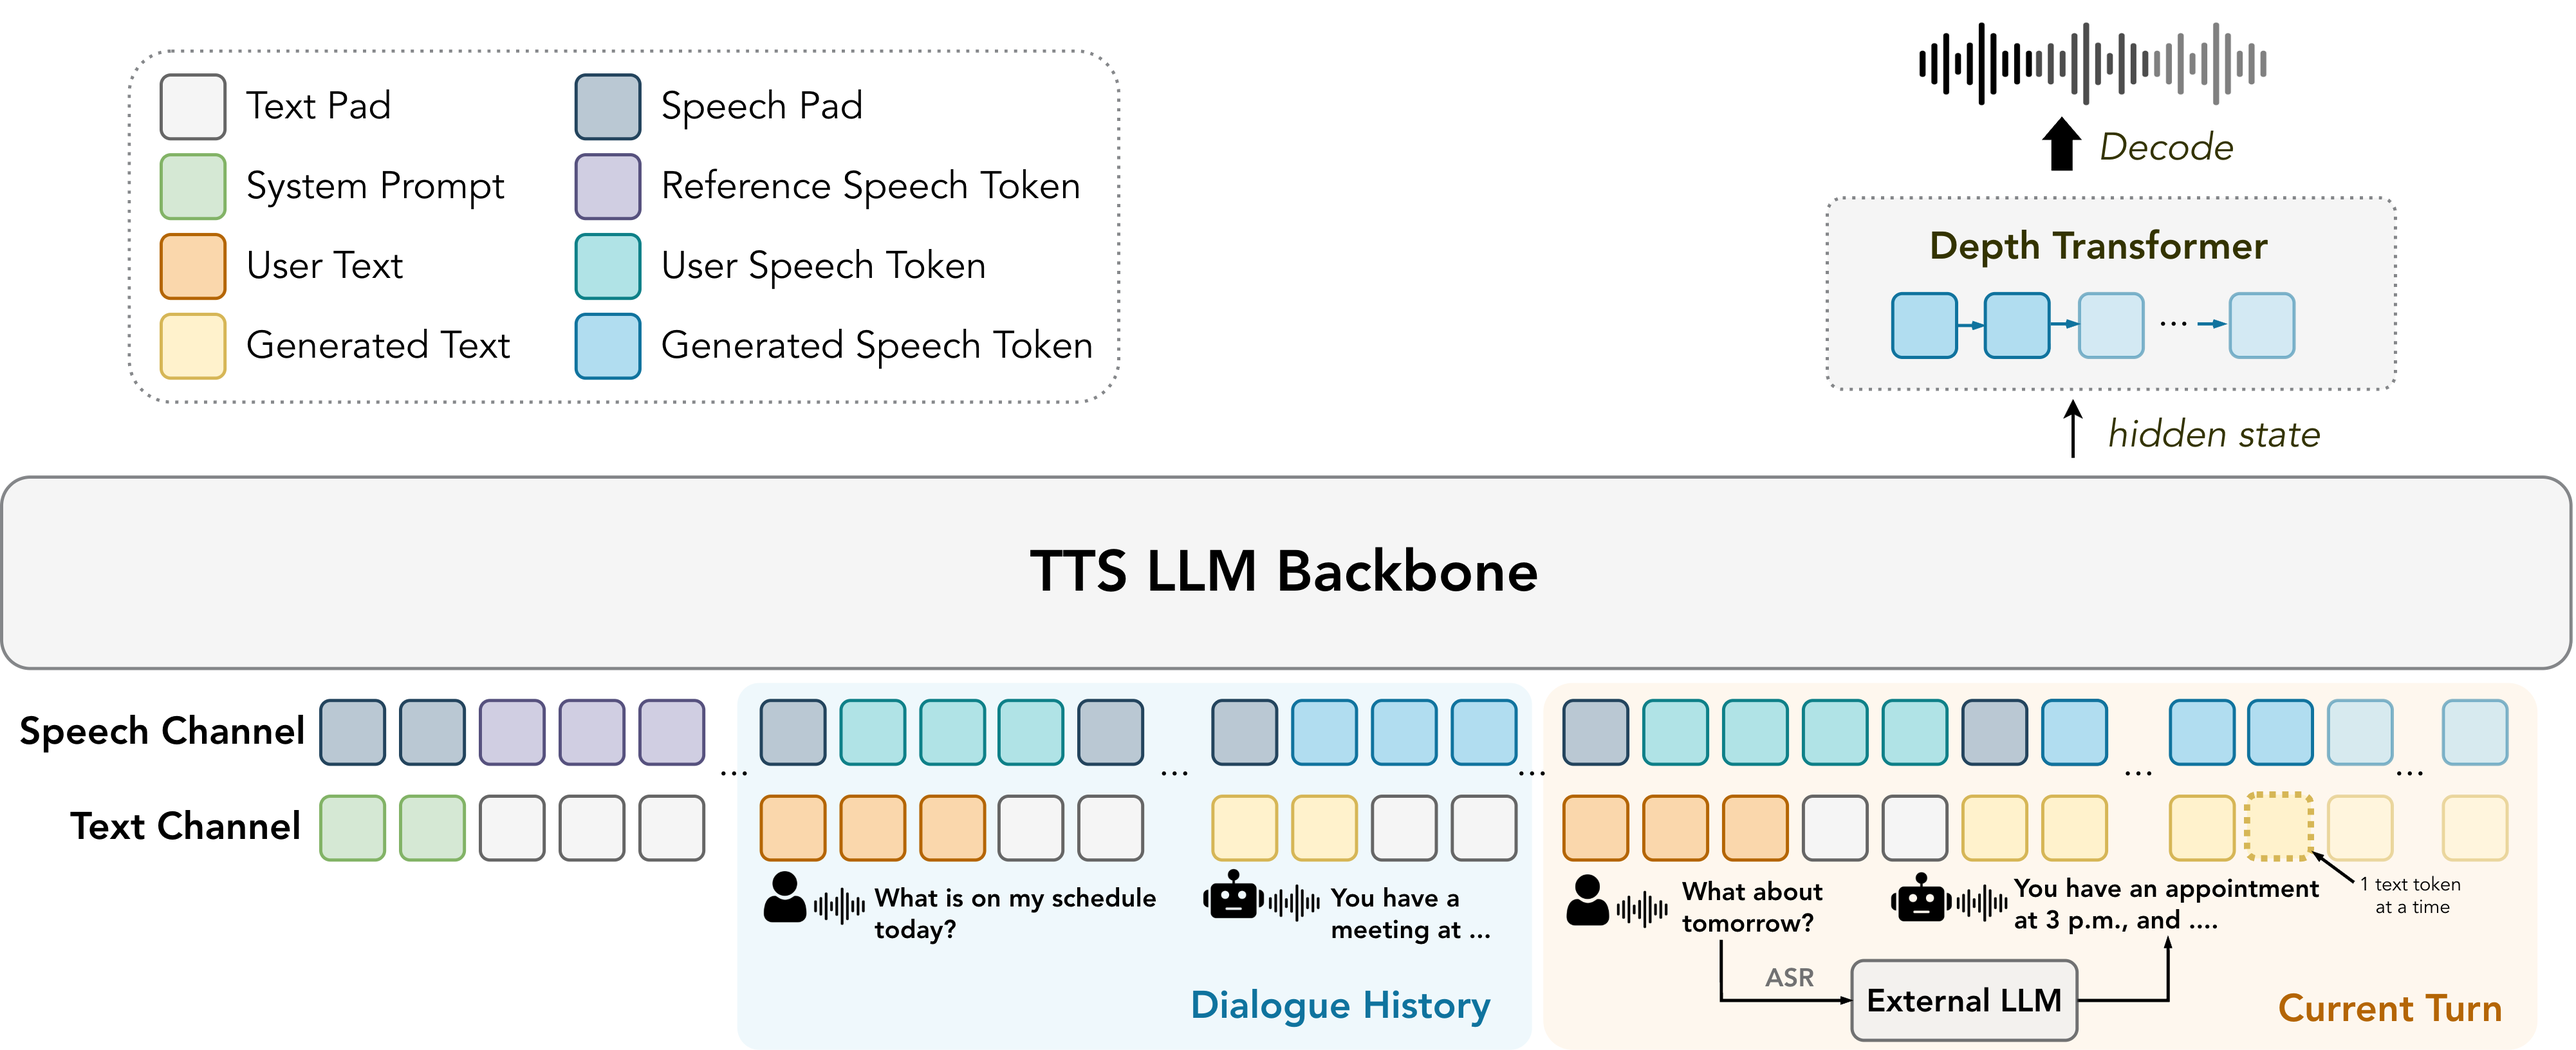
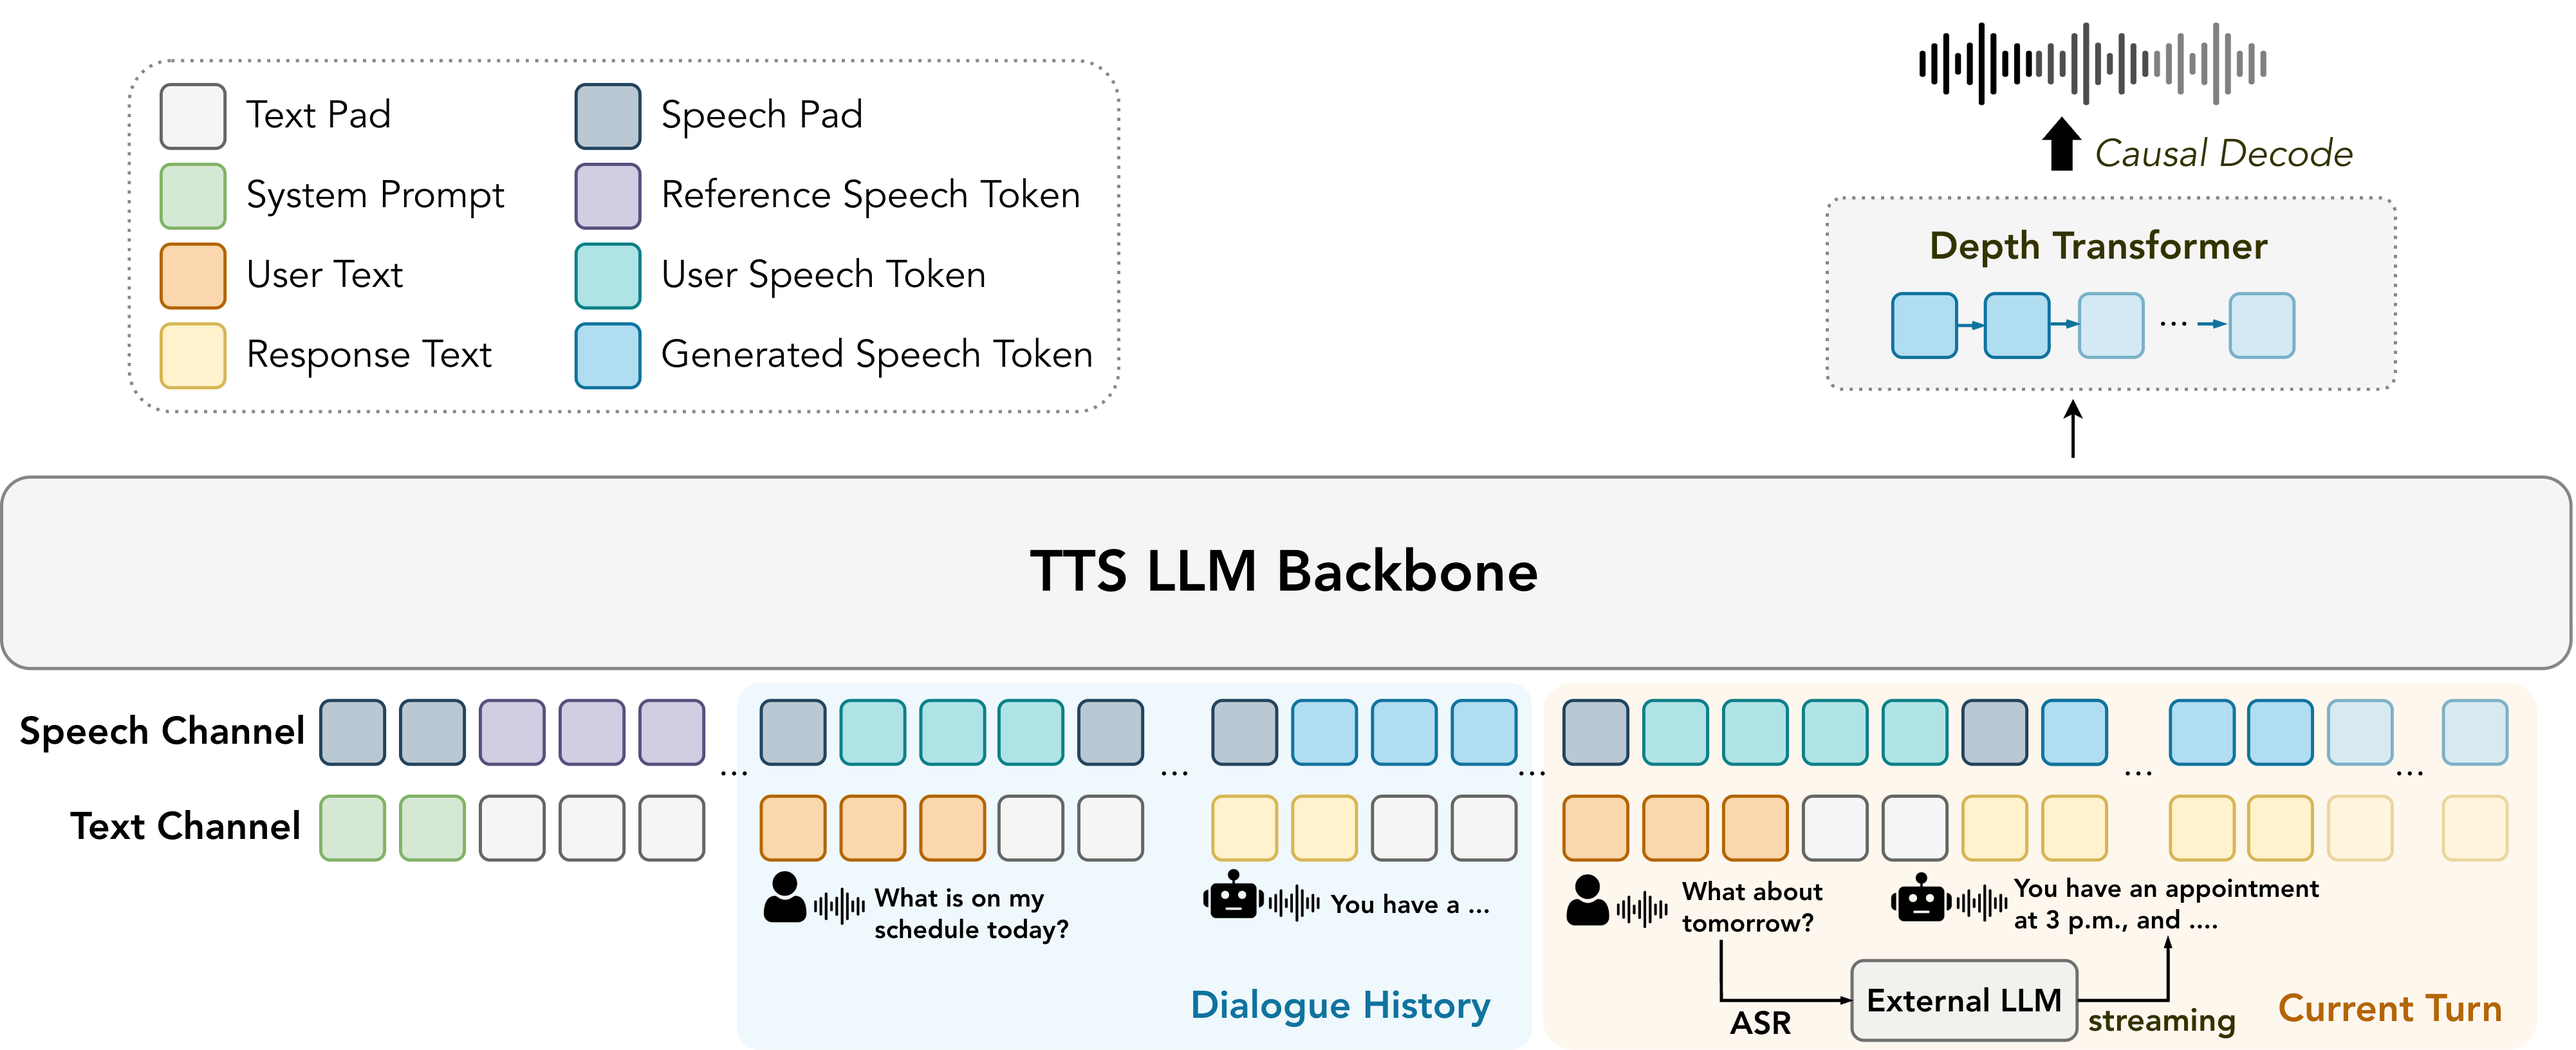
update

diff --git a/index.html b/index.html
@@ -1,0 +1,125 @@
+<!doctype html>
+<html lang="en">
+<head>
+  <meta charset="utf-8">
+  <meta name="viewport" content="width=device-width, initial-scale=1">
+  <meta name="description" content="MOSS-TTS-Realtime: context-aware, full-stream speech synthesis for real-time voice agents. Explore the model, code, and interactive demo.">
+  <title>MOSS-TTS-Realtime · Context-Aware Full-Stream Speech Synthesis</title>
+  <style>
+    :root { color-scheme: light; --ink: #252c32; --muted: #637079; --accent: #24685c; --line: #e2e7e5; }
+    * { box-sizing: border-box; }
+    body { margin: 0; background: #fff; color: var(--ink); font-family: "Helvetica Neue", Helvetica, sans-serif; font-size: 16px; line-height: 1.75; -webkit-font-smoothing: antialiased; }
+    a { color: var(--accent); text-underline-offset: 4px; }
+    a:hover { color: #123f36; }
+    a:focus-visible { outline: 3px solid #488bcb; outline-offset: 5px; }
+    .skip { position: absolute; top: -100px; left: 20px; background: #fff; padding: 8px 16px; z-index: 2; }
+    .skip:focus { top: 12px; }
+    .page { max-width: 1040px; margin: 0 auto; padding: 0 32px; }
+    header { text-align: center; padding: 68px 12px 44px; border-bottom: 1px solid var(--line); }
+    .eyebrow { margin: 0 0 12px; font-size: 12px; font-weight: 600; letter-spacing: .14em; text-transform: uppercase; color: var(--accent); }
+    h1 { margin: 0; font-size: clamp(32px, 5.2vw, 52px); letter-spacing: -.04em; line-height: 1.15; font-weight: 700; }
+    .subtitle { max-width: 690px; margin: 16px auto 27px; font-size: clamp(19px, 2.6vw, 25px); line-height: 1.45; font-weight: 400; color: #53616a; }
+    .authors { max-width: 840px; margin: 0 auto; font-size: 15px; line-height: 2; }
+    .authors span { display: inline-block; margin: 0 7px; }
+    sup { font-size: .68em; line-height: 0; margin-left: 1px; }
+    .affiliations { margin: 14px 0 0; color: var(--muted); font-size: 14px; }
+    .affiliations span { display: inline-block; margin: 0 10px; }
+    .notes { margin: 5px 0 0; font-size: 12px; color: var(--muted); }
+    .links { display: flex; justify-content: center; flex-wrap: wrap; gap: 10px; margin-top: 27px; }
+    .button { display: inline-flex; align-items: center; justify-content: center; gap: 8px; min-height: 43px; padding: 7px 17px; border: 1px solid #d6ddda; border-radius: 7px; color: var(--ink); background: #fff; text-decoration: none; font-size: 14px; font-weight: 500; transition: background .15s, border-color .15s; }
+    .button:hover { background: #f1f6f3; border-color: #9bb8ad; color: var(--accent); }
+    .button.primary { background: var(--accent); border-color: var(--accent); color: #fff; }
+    .button.primary:hover { background: #194e43; }
+    .icon { width: 17px; height: 17px; flex-shrink: 0; }
+    .hug { font-size: 19px; line-height: 1; }
+    main { padding-top: 37px; }
+    .prose { max-width: 800px; margin: 0 auto; }
+    section, section.prose { margin-bottom: 35px; }
+    h2 { font-size: 24px; line-height: 1.35; letter-spacing: -.025em; margin: 0 0 17px; font-weight: 600; }
+    p { margin: 0 0 16px; }
+    .features { padding-left: 22px; margin: 18px 0 0; }
+    .features li { padding-left: 4px; margin: 10px 0; }
+    .features li::marker { color: var(--accent); }
+    figure { margin: 23px 0 0; }
+    figure a { display: block; border: 1px solid var(--line); border-radius: 8px; padding: 20px 12px; }
+    figure img { display: block; width: 100%; height: auto; }
+    figcaption { max-width: 780px; margin: 14px auto 0; font-size: 13px; line-height: 1.65; color: var(--muted); text-align: center; }
+    .try { border-top: 1px solid var(--line); padding-top: 29px; margin-top: 34px; }
+    footer { border-top: 1px solid var(--line); padding: 20px 0 28px; text-align: center; font-size: 12px; color: var(--muted); }
+    @media (max-width: 600px) {
+      .page { padding: 0 20px; }
+      header { padding: 39px 0 30px; }
+      .authors { font-size: 13px; }
+      .authors span { margin: 0 4px; }
+      .affiliations { font-size: 12px; }
+      .affiliations span { margin: 0 5px; }
+      .button { padding: 7px 12px; font-size: 13px; }
+      main { padding-top: 28px; }
+      h2 { font-size: 22px; }
+      figure a { padding: 12px 3px; }
+      .features { padding-left: 18px; }
+    }
+    @media (prefers-reduced-motion: reduce) { .button { transition: none; } }
+  </style>
+</head>
+<body>
+  <a class="skip" href="#overview">Skip to content</a>
+  <div class="page">
+    <header>
+      <p class="eyebrow">Full-stream text-to-speech</p>
+      <h1>MOSS-TTS-Realtime</h1>
+      <p class="subtitle">Context-Aware Speech Synthesis<br>for Real-Time Voice Agents</p>
+      <p class="authors">
+        <span>Yiwei Zhao<sup>1,2,3,*</sup></span>
+        <span>Yaozhou Jiang<sup>1,3,*</sup></span>
+        <span>Botian Jiang<sup>1,2,3</sup></span>
+        <span>Kexin Huang<sup>1</sup></span>
+        <span>Yiyang Zhang<sup>1,2,3</sup></span>
+        <span>Zhe Xu<sup>1,2,3</sup></span>
+        <span>Yuqian Zhang<sup>1,2,3</sup></span>
+        <span>Xiaogui Yang<sup>3</sup></span>
+        <span>Qingyuan Cheng<sup>3</sup></span>
+        <span>Xipeng Qiu<sup>1,2,3,†</sup></span>
+      </p>
+      <p class="affiliations"><span><sup>1</sup> Fudan University</span><span><sup>2</sup> Shanghai Innovation Institute</span><span><sup>3</sup> MOSI.AI</span></p>
+      <p class="notes"><sup>*</sup> Equal contribution &nbsp; · &nbsp; <sup>†</sup> Corresponding author</p>
+      <nav class="links" aria-label="Project resources">
+        <a class="button" href="https://github.com/OpenMOSS/MOSS-TTS/tree/main/moss_tts_realtime">
+          <svg class="icon" viewBox="0 0 24 24" fill="currentColor" aria-hidden="true"><path d="M12 .8a11.2 11.2 0 0 0-3.54 21.83c.56.1.77-.24.77-.54v-2.08c-3.13.68-3.79-1.33-3.79-1.33-.51-1.3-1.25-1.64-1.25-1.64-1.02-.7.08-.69.08-.69 1.13.08 1.73 1.16 1.73 1.16 1 1.72 2.63 1.22 3.27.93.1-.73.4-1.22.71-1.5-2.5-.28-5.13-1.25-5.13-5.55 0-1.23.44-2.23 1.16-3.02-.12-.29-.5-1.43.11-2.97 0 0 .95-.3 3.08 1.15a10.7 10.7 0 0 1 5.6 0c2.14-1.45 3.08-1.15 3.08-1.15.61 1.54.23 2.68.11 2.97.73.79 1.16 1.79 1.16 3.02 0 4.31-2.63 5.26-5.14 5.54.4.35.76 1.03.76 2.08v3.08c0 .3.2.65.78.54A11.2 11.2 0 0 0 12 .8Z"/></svg>
+          Code
+        </a>
+        <a class="button" href="https://huggingface.co/OpenMOSS-Team/MOSS-TTS-Realtime"><span class="hug" aria-hidden="true">🤗</span> Hugging Face Model</a>
+        <a class="button primary" href="https://www.mosi.cn/models/moss-tts-streaming"><svg class="icon" viewBox="0 0 24 24" fill="none" aria-hidden="true"><path d="m8 5 11 7-11 7V5Z" fill="currentColor"/></svg> Demo</a>
+      </nav>
+    </header>
+    <main>
+      <section class="prose" id="overview" aria-labelledby="overview-title">
+        <h2 id="overview-title">Overview</h2>
+        <p>We present <strong>MOSS-TTS-Realtime</strong>, a 1.9B-parameter, context-aware full-stream text-to-speech model for real-time voice agents. It converts incrementally arriving text into speech while using the textual and acoustic context of preceding dialogue turns to guide delivery.</p>
+        <ul class="features">
+          <li><strong>Full-stream synthesis.</strong> Accepts text as it arrives from an LLM and generates speech on the fly, without waiting for the complete response.</li>
+          <li><strong>Context-aware conversations.</strong> Uses user speech, transcripts, and earlier exchanges to condition each response, with the backbone's KV cache retained across turns.</li>
+          <li><strong>Zero-shot voice cloning.</strong> Uses reference speech to condition the voice of the generated response.</li>
+        </ul>
+      </section>
+      <section aria-labelledby="architecture-title">
+        <div class="prose">
+          <h2 id="architecture-title">Model Architecture</h2>
+          <p>A backbone Transformer processes asynchronous text and audio channels. A depth Transformer predicts the audio codes within each frame, and a causal decoder turns completed frames into waveform output. This allows LLM generation, speech synthesis, and playback to overlap.</p>
+        </div>
+        <figure>
+          <a href="./assets/moss_tts_realtime.png" aria-label="Open the full-resolution model architecture diagram">
+            <img src="./assets/moss_tts_realtime.png" width="4003" height="1632" alt="MOSS-TTS-Realtime architecture showing dialogue text and speech context, streaming response text, the backbone and depth Transformers, and incremental speech output." decoding="async">
+          </a>
+          <figcaption>User speech and ASR transcripts provide dialogue context, while an external LLM streams the response text. The model generates speech incrementally through its text and audio channels.</figcaption>
+        </figure>
+      </section>
+      <section class="prose try" aria-labelledby="try-title">
+        <h2 id="try-title">Try MOSS-TTS-Realtime</h2>
+        <p>Explore the <a href="https://www.mosi.cn/models/moss-tts-streaming">interactive demo</a>, download the <a href="https://huggingface.co/OpenMOSS-Team/MOSS-TTS-Realtime">model on Hugging Face</a>, or visit the <a href="https://github.com/OpenMOSS/MOSS-TTS/tree/main/moss_tts_realtime">code repository</a> for usage instructions.</p>
+      </section>
+    </main>
+    <footer>MOSS-TTS-Realtime &nbsp; · &nbsp; Fudan University · Shanghai Innovation Institute · MOSI.AI</footer>
+  </div>
+</body>
+</html>
